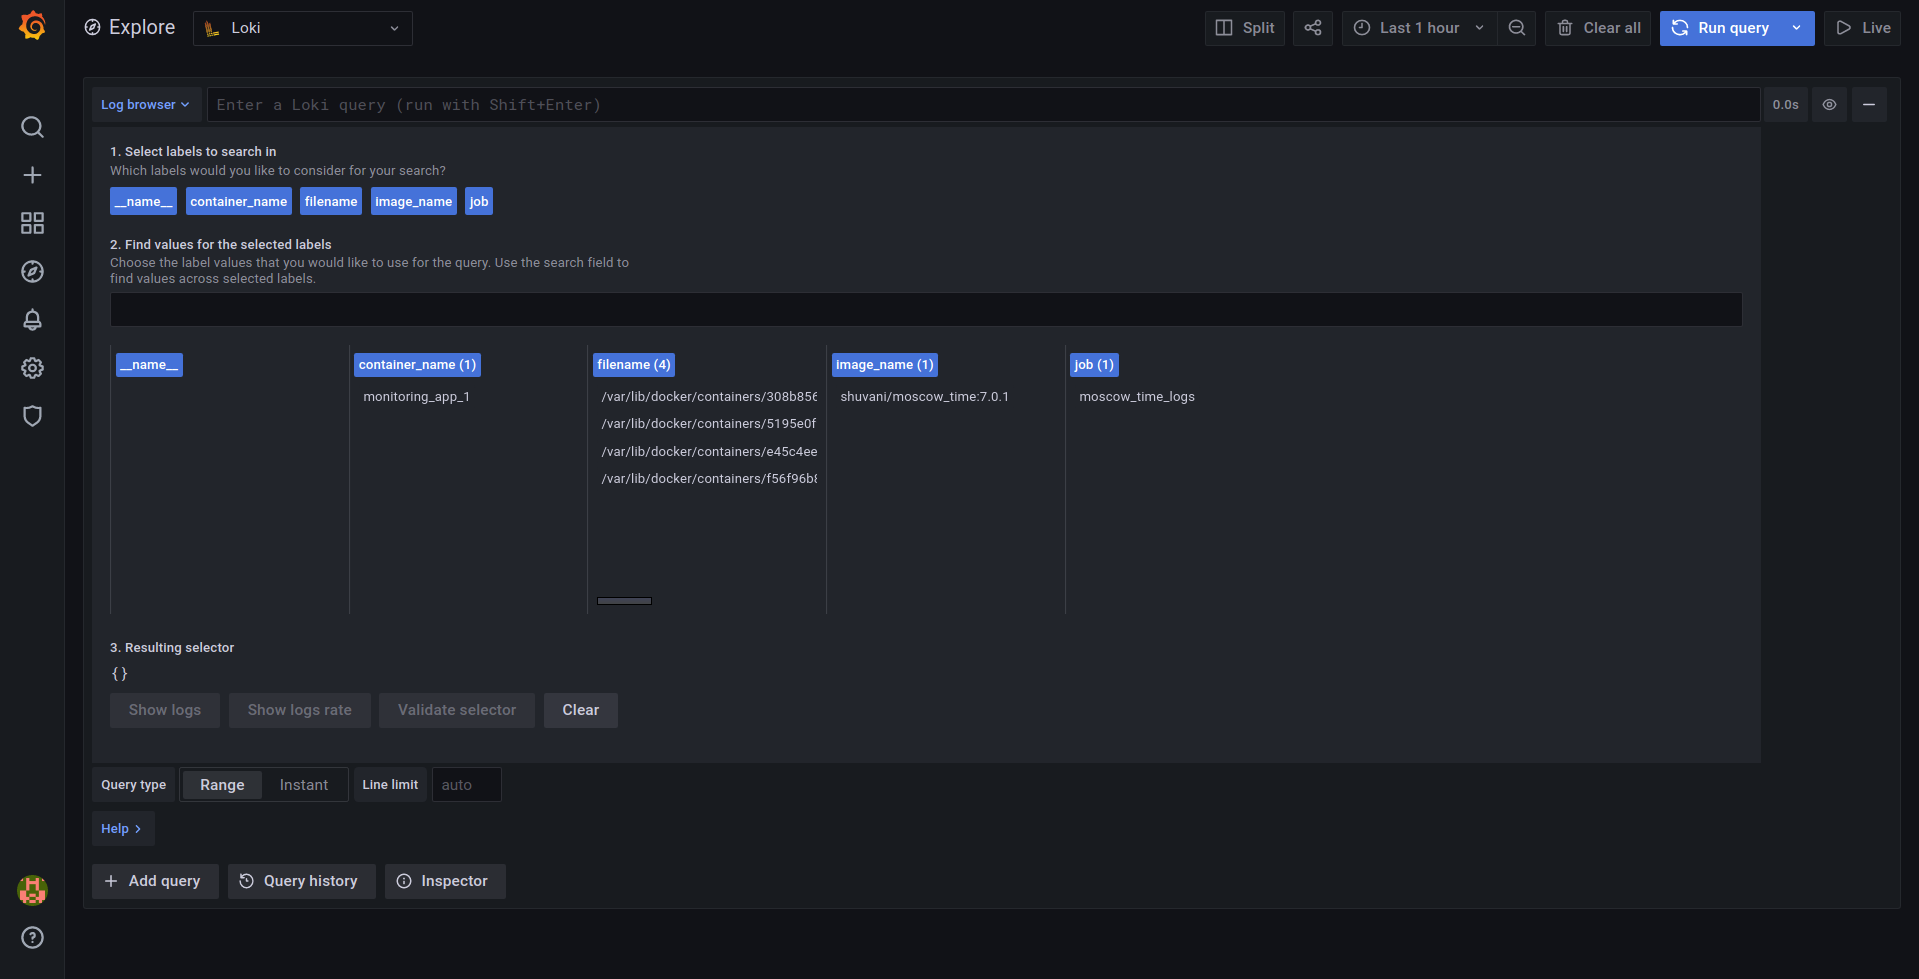
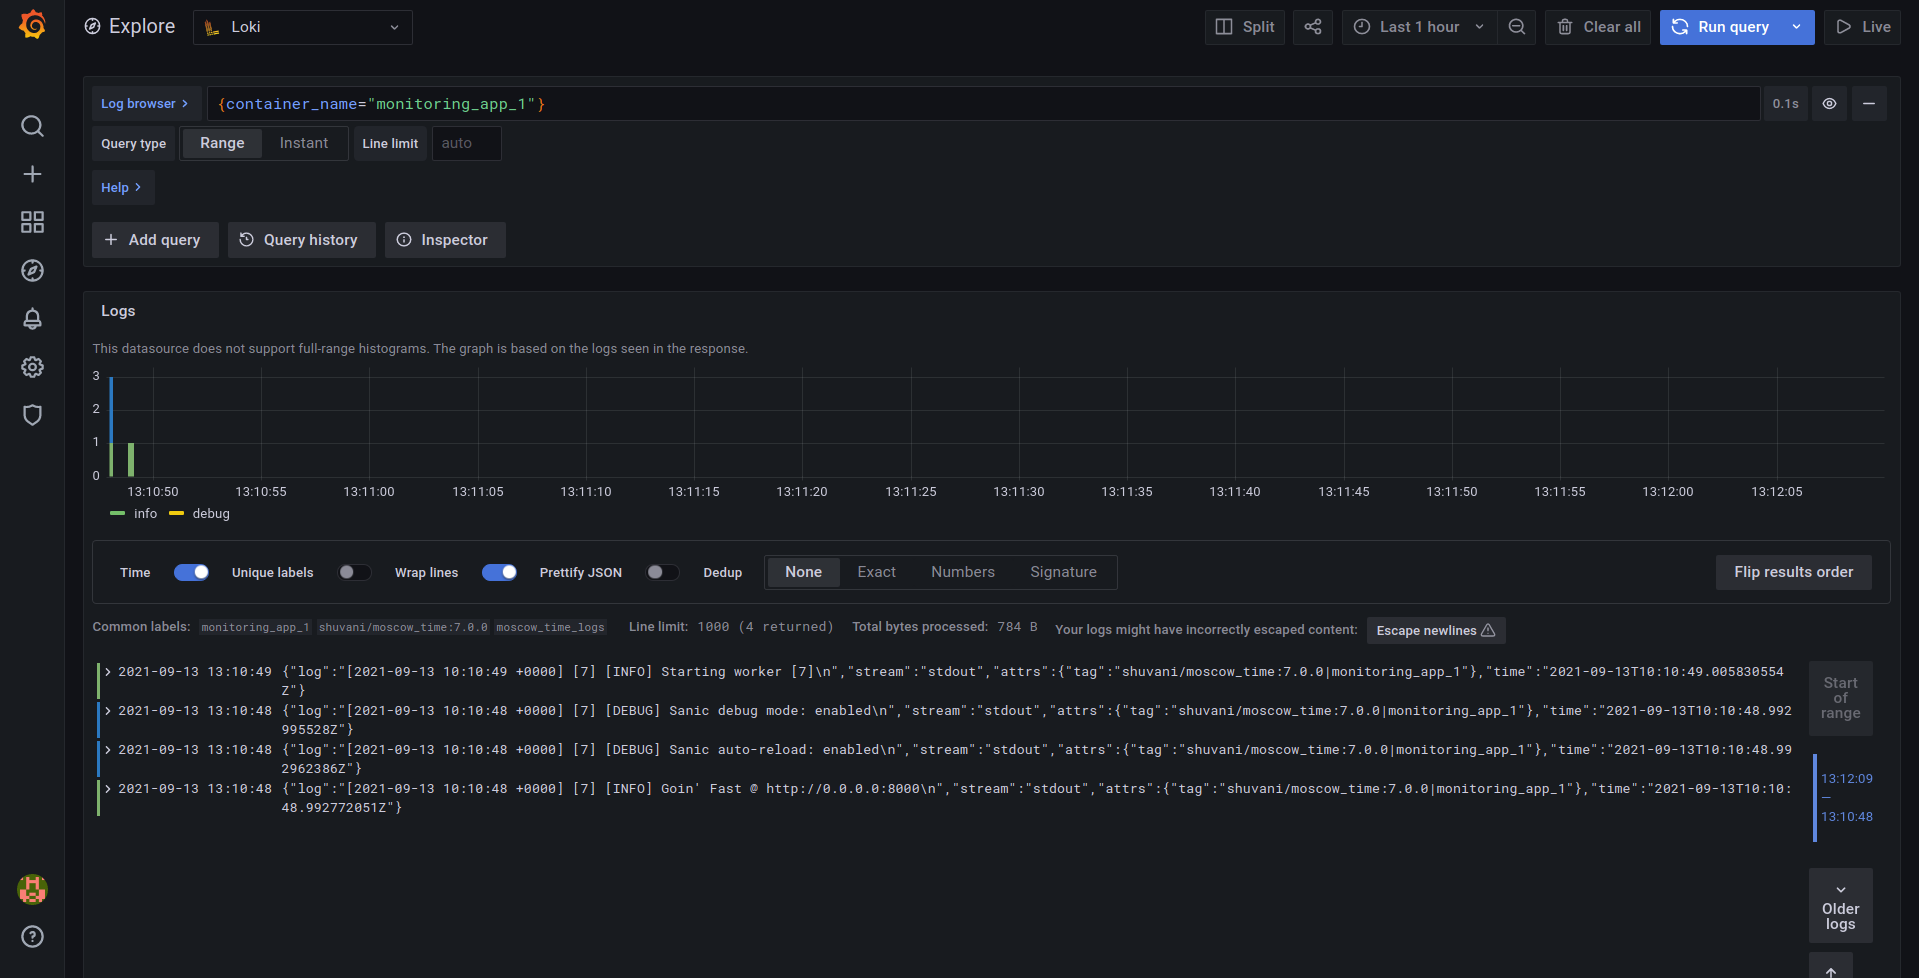
part of prometheus

diff --git a/monitoring/LOGGING.md b/monitoring/LOGGING.md
@@ -11,3 +11,8 @@
 - Logs are in increasing time order
 - -log-config-reverse-order was used automatically
 - Write target because early versions use it
+
+# Prometheus results
+![Labels](pic/8-1.png)
+![Logs](pic/8-2.png)
+![Logs](pic/8-3.png)
